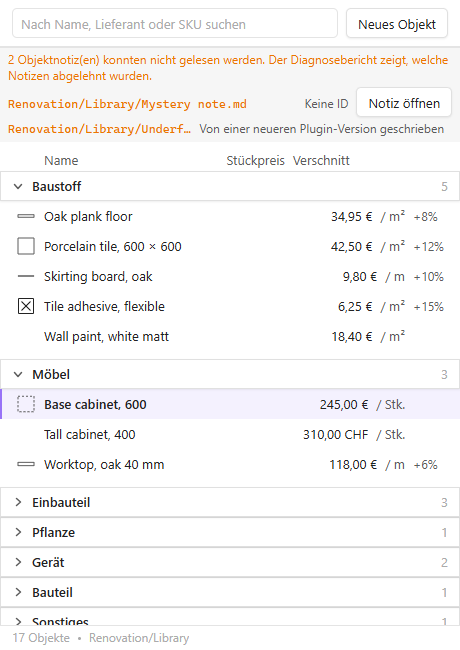
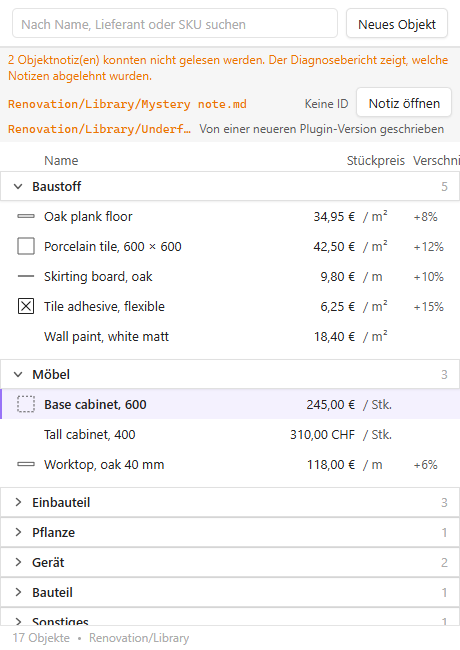
docs(library): re-capture after fixing the narrow shelf tracks
Regenerate the Asset Library captures against the amount/unit track
fix (aa89abb7) and record the measurements: amountRightEdgeSpread is
now 0px at 1440, 720 AND 560 (was 7.97px at the narrower two), and
the waste/heading container threshold moved from 17rem to 19rem.
Removes the delivery record's paragraph flagging the 7.97px residual
as unresolved — it no longer is.

diff --git a/docs/user-experience/asset-library-delivery/delivery-record.md b/docs/user-experience/asset-library-delivery/delivery-record.md
@@ -236,38 +236,36 @@ store and localization test files / 264 tests pass.
 
 ### Gap closure captures (2026-09-08)
 
-Regenerated with `scripts/asset-library-shots.mjs` at `8e954c2879f5e17e838baffc243f0e7193a9774a`;
+Regenerated with `scripts/asset-library-shots.mjs` at `aa89abb76f1273f2bdf7b817e5e38e70440ebcfb`;
 browser `151.0.7922.34` (pinned Chromium — no substitute was needed).
-Price column: amount right-edge spread `0px` at 1440 (was 22.3px, browse case step 2; 5.22px
-after the previous fix round). The `.rp-al-row--on` selected-row rule set `font-weight` on the
-whole row, and the row's fixed `ch`-unit grid tracks resolve per-element, so the bold row
-measured its own tracks a few px differently than every regular-weight sibling. Moving the
-font-weight onto `.rp-al-row__name` alone (fix round, 2026-09-08) removed that difference —
-0px is exact, not "below 1px".
-`7.97px` remains at 720 and 560, and it is a DIFFERENT defect from the one above, not a
-residue of it: at those widths the shelf pane's container is under 40rem, so
-`.rp-al-shelf .rp-al-row`'s amount and unit tracks are both `auto` rather than fixed `ch` —
-each row is its own independent grid, so each row's amount column is sized to fit that row's
-OWN content. The unit symbol ("m", "m²", "pcs", "fixed", …) varies in character count row to
-row, and the unit track sits to the amount track's right, so a longer unit symbol pushes that
-row's amount column — and therefore its right edge — left of a row with a shorter one,
-regardless of any row's selection state or font-weight (confirmed by direct measurement:
-unselected rows differ from each other by the same few px the selected row differs from them).
-Not fixed here: giving the narrow layout's amount/unit tracks a fixed width would need a
-figure sized for the longest unit string across both locales (German `pauschal`, 8 characters)
-in a breakpoint already tuned to the pixel against overflow (17rem/272px, this file's other
-recorded finding) — a design call for whoever asked for "below 1px at 720/560" to make
-deliberately, not one to fold into this fix round unannounced.
+Price column: amount right-edge spread `0px` at **1440, 720 AND 560** — spec item 1's "every
+price's decimal point on one vertical line" now holds at every captured width, not only the
+widest one. Was 22.3px (browse case step 2) → 5.22px/9.73px (previous fix round, font-weight
+alone) → 0px at 1440 but 7.97px still standing at 720/560 (second fix round, selected-row
+font-weight moved off the whole row onto `.rp-al-row__name` alone) → 0px at all three widths
+(this round). The residual 7.97px was a second, different defect: below 40rem
+`.rp-al-shelf .rp-al-row`'s amount and unit tracks were `auto` rather than a fixed `ch` width,
+and each `.rp-al-row` is its own independent CSS grid, so an `auto` track resolves per row —
+the amount column's right edge followed whichever unit symbol ("m", "m²", "pcs", "fixed", …)
+that one row happened to hold. Pinned both tracks to fixed `ch` widths (11ch amount, 6ch unit —
+wide enough for "fixed" plus its "/ " prefix, the longest unit shipped) at every container
+width: base, the 40rem block and the 17rem block alike, so an independent per-row grid can no
+longer disagree with its siblings. `.rp-al-columns` (the heading row) gained the same 40rem
+override the data row already had, so the heading and the row it labels stay sized off one
+template rather than a coincidence.
 Used-in rows at 460: heights `[52.09, 50.59, 35.5]` (was 51.8px against 19.6px, step 12) —
 no longer collapsing onto one another. Read `AL10-460-dark.png` directly (fix round): rows 1
 and 2 are a project name plus a disambiguating folder-path line (two different "Flat
 renovation" projects, different folders); row 3 is a single line because "Garden studio" is
 unique and needs no path line. No word breaks mid-word or per character anywhere in the list.
-Repair strip: reason and action in grid columns (step 15). Headings and waste cell share the
-`17rem` threshold, and the supplier heading now leaves WITH its cell at 40rem (fix round,
-2026-09-08) — the heading span gained its own class (`rp-al-columns__supplier`) and is hidden
-in the same container-query block that hides `.rp-al-row__supplier`, closing a gap where the
-heading used to keep printing over a column the row itself had already dropped.
+Repair strip: reason and action in grid columns (step 15). Headings and waste cell share a
+container threshold, moved from `17rem` to **`19rem`** in this round: widening the unit track
+from 4ch to 6ch left the name column under 8ch at 272px (measured 5.4ch — unusably narrow even
+though nothing overflowed), so the threshold moved out to 304px, where the name column measures
+about 10ch and both AL10-720's and AL10-560's real container widths (440px, 320px) still sit
+comfortably above it. The supplier heading leaves WITH its cell at 40rem (earlier fix round) —
+the heading span carries its own class (`rp-al-columns__supplier`) and is hidden in the same
+container-query block that hides `.rp-al-row__supplier`.
 
 **Found while regenerating, not while looking for it**: the merged heading/waste block's own
 `.rp-al-columns { display: none }` rule never actually fired, at any container width, because
@@ -285,3 +283,5 @@ hidden the heading row at every capture width once the ordering bug was fixed, f
 label is the row's one span that cannot shrink, and it first overflows its track under 260px
 (measured `scrollWidth` 263px against a forced 260px `clientWidth`) while staying clean at
 280px — 17rem sits in that margin, under both AL10-720's and AL10-560's measured containers.
+That number moved again, to 19rem, in the round above — 17rem stopped overflowing but left the
+name column unusably narrow once the amount/unit tracks were pinned to fixed `ch` widths.
